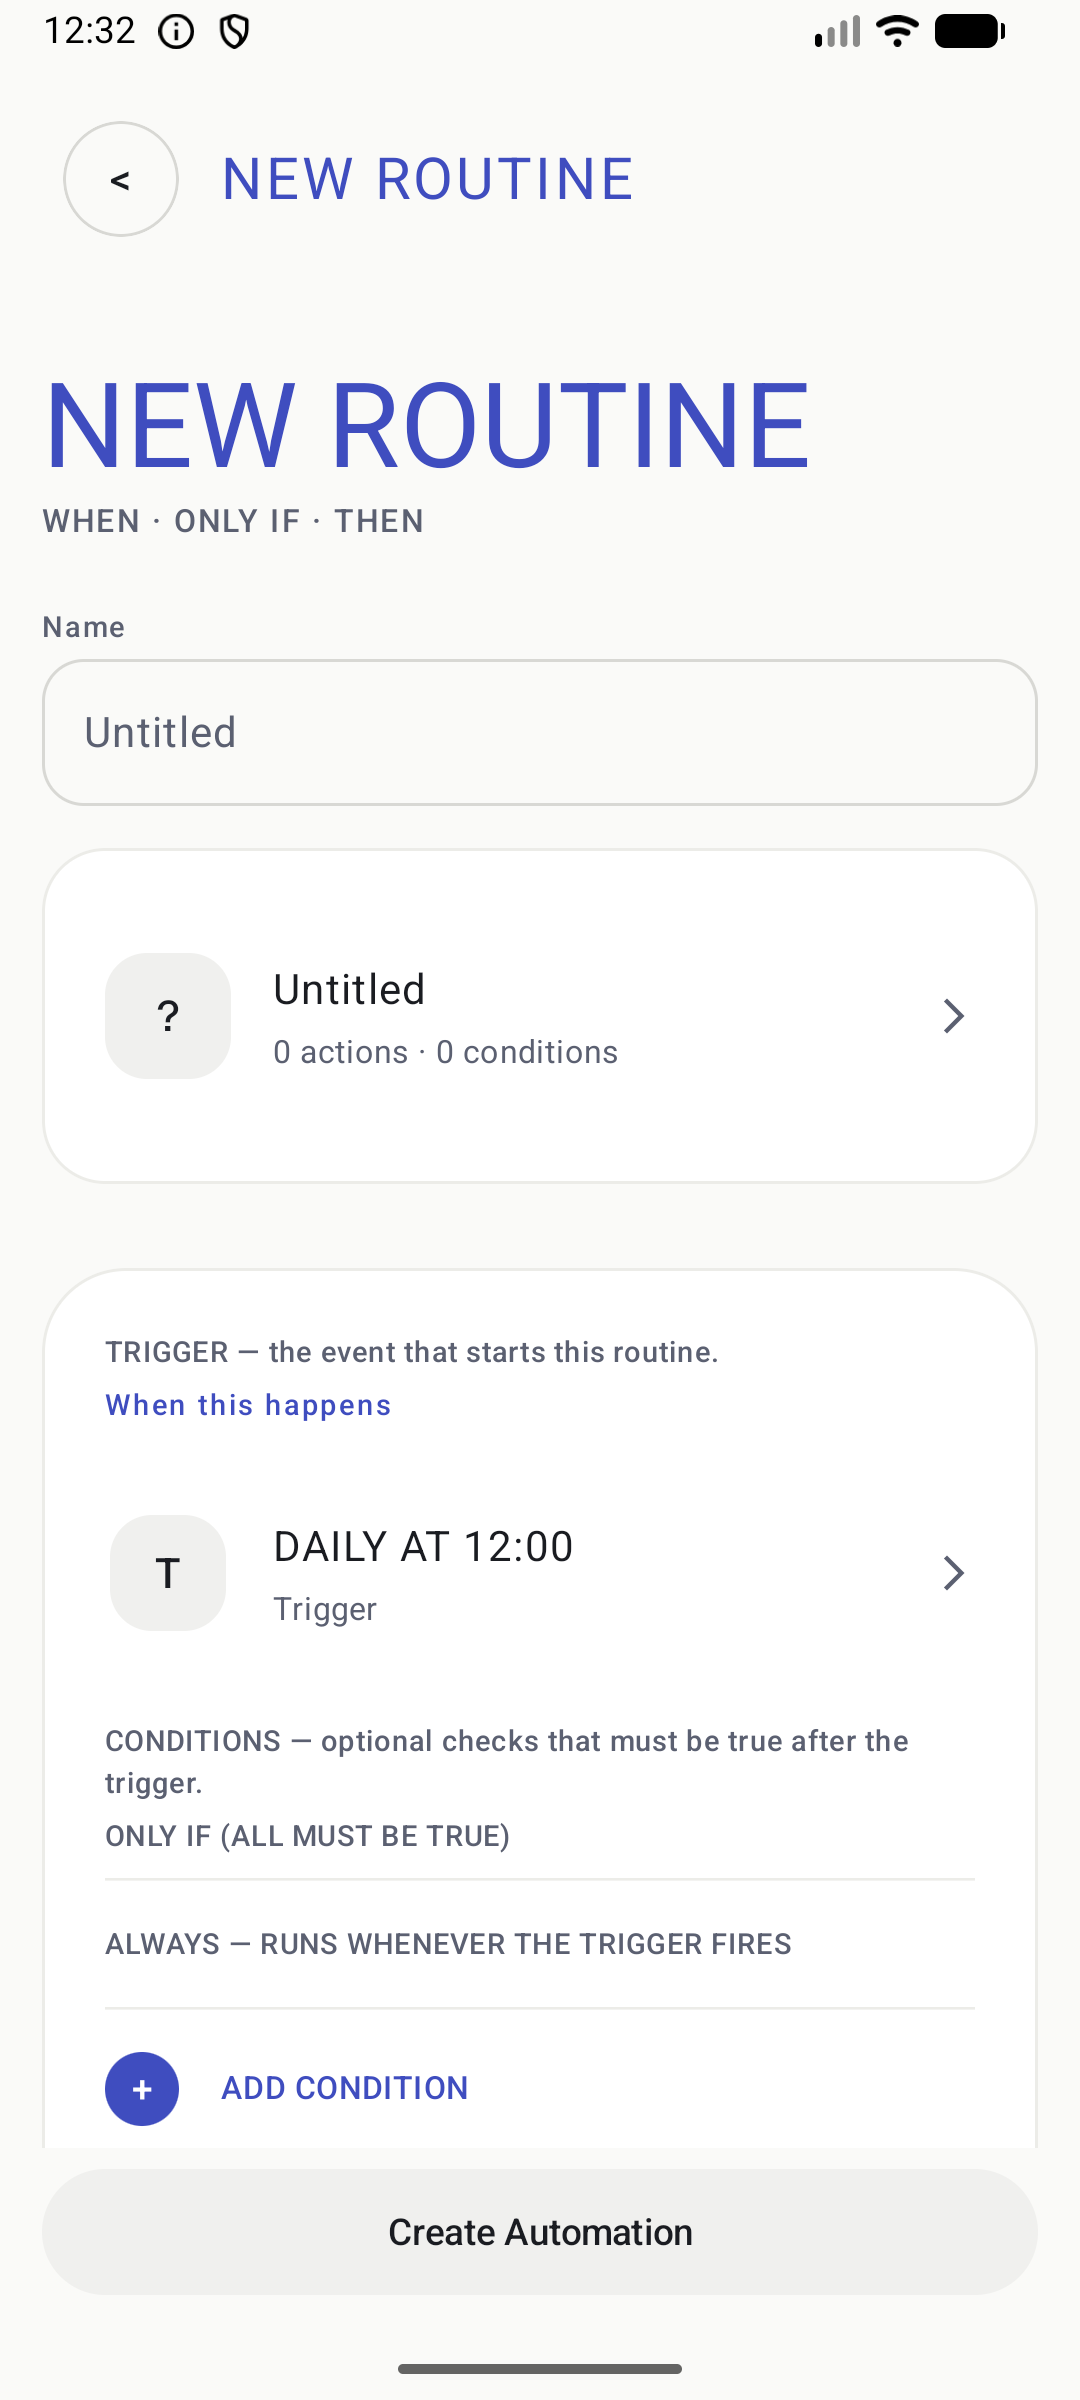
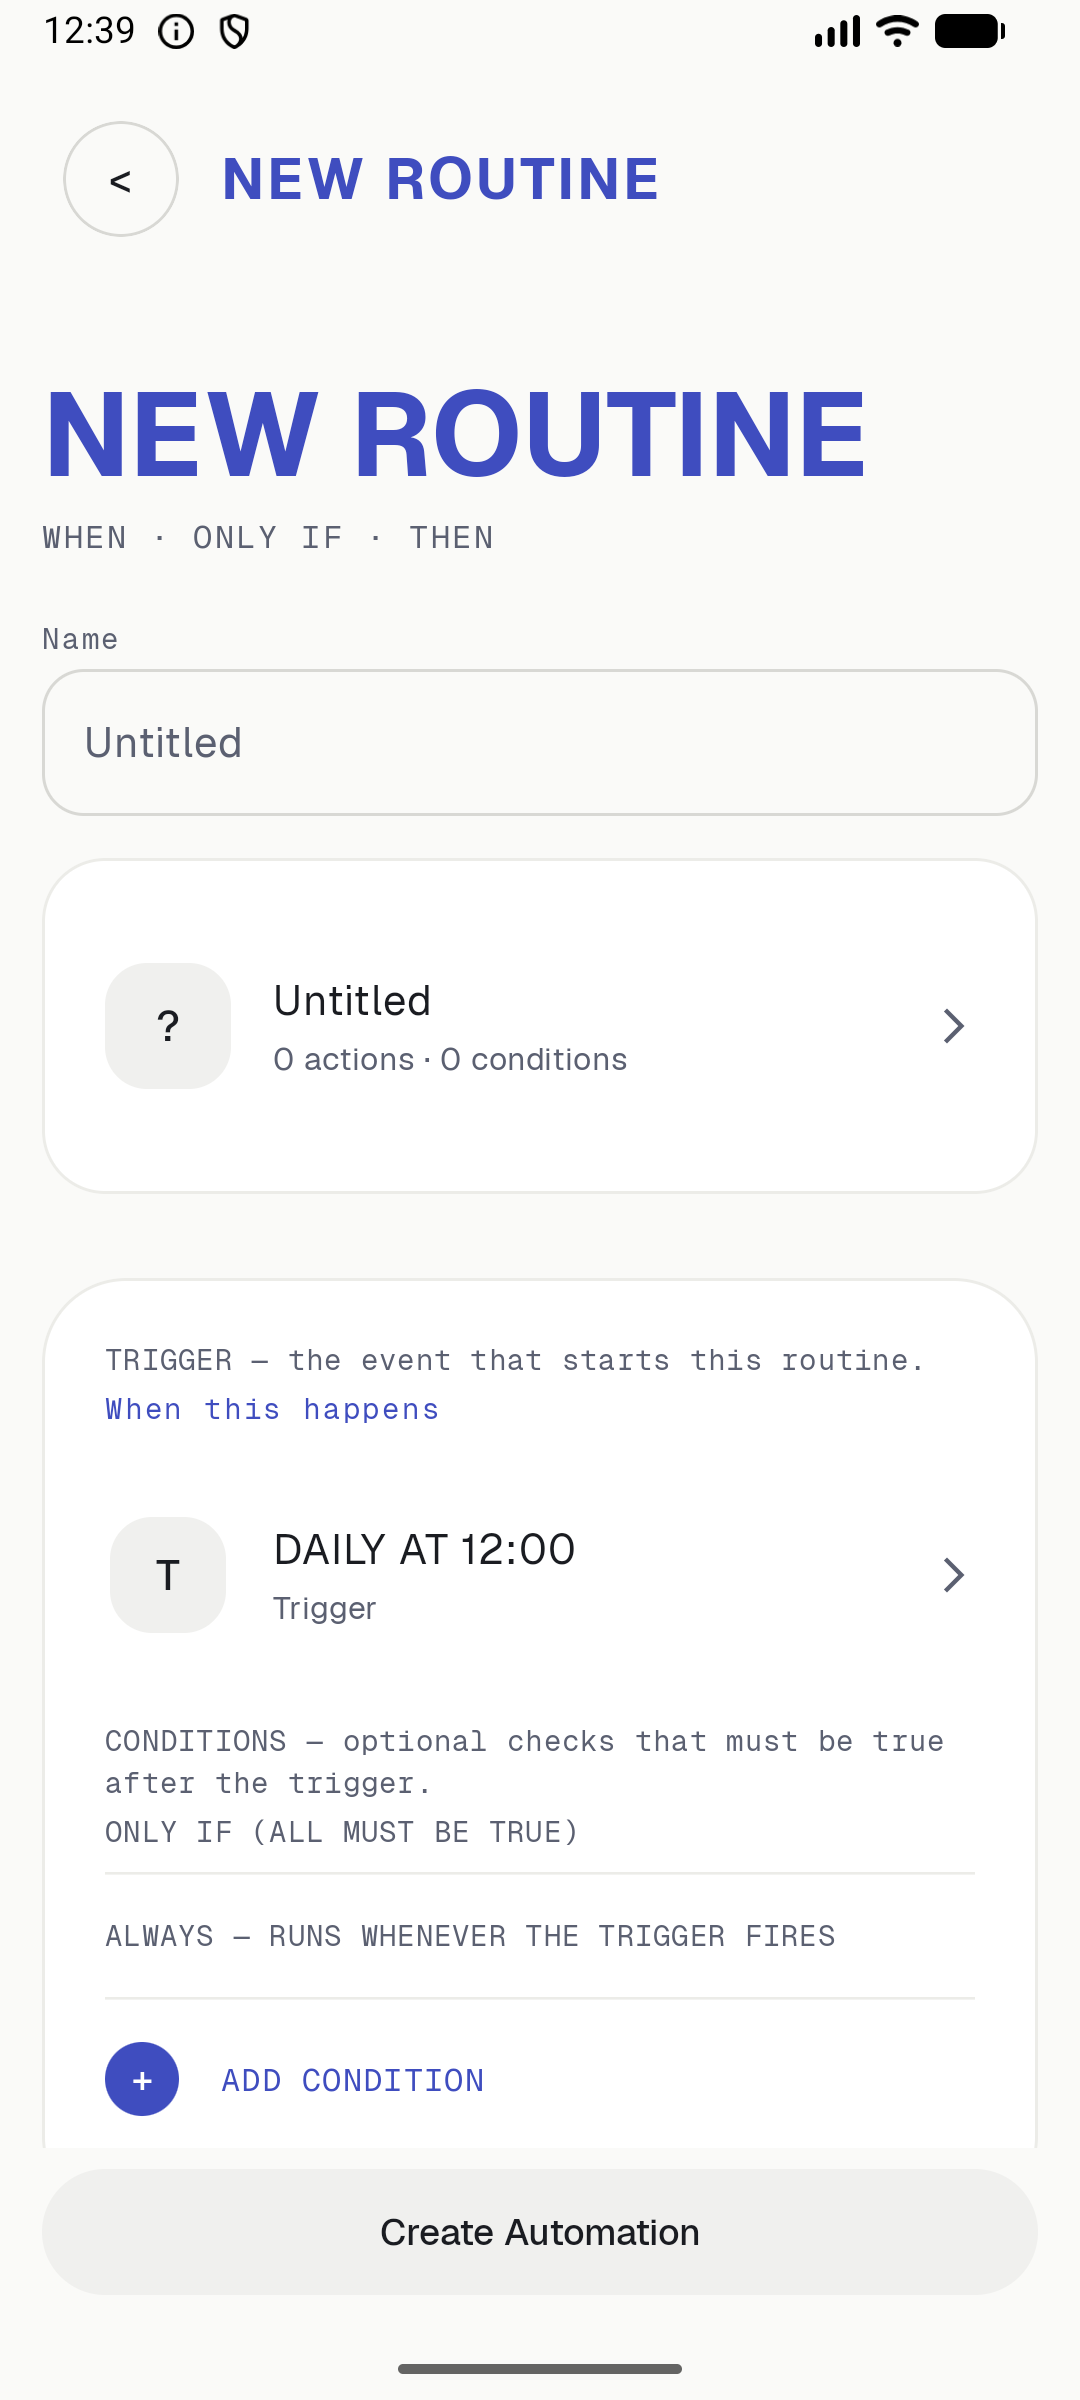
feat(ui+landing): unified classic identity — Geist type, shared indigo
App CLASSIC now uses Geist Sans across all type slots with Geist Mono
for data labels, matching the landing's normal mode. The landing
normal palette mirrors the app's ClassicDark/ClassicLight — indigo
accent (#8E97E8 dark / #3F4DBF light), same canvas and surface tones.
NOTHING style is unchanged. Classic-mode screenshots recaptured on
the emulator and now serve the site's normal style.

Authored By: TDvorak <info@tdvorak.dev>

diff --git a/landing/styles.css b/landing/styles.css
@@ -532,22 +532,22 @@ a { color: inherit; text-decoration: none; }
 :root[data-theme="light"] .shot { background: var(--surface-2); }
 
 /* ===== Style: normal — premium SaaS look (dark + light) =====
-   One restrained accent (warm coral), warm-neutral dark canvas,
-   clean light. Geist Sans throughout, rounded cards, soft shadows.
+   One restrained accent (indigo, matching the app's classic
+   theme), neutral canvases matching the app's classic palette,
    No rainbow, no gradient text, no per-card hues, no colored pills. */
 
 /* --- Palette: normal dark (default) --- */
 :root[data-style="normal"] {
-  --red: #F2542D;                       /* accent: warm coral */
-  --bg: #14110E;                        /* warm near-black, not pure */
-  --surface: #1B1713;
-  --surface-2: #221D17;
-  --border: #2C2620;
-  --border-hi: #3D352C;
-  --text: #F2EDE6;                      /* warm off-white */
-  --text-2: rgba(242,237,230,0.62);
-  --text-3: rgba(242,237,230,0.38);
-  --dot: #2A241D;
+  --red: #8E97E8;                       /* accent: app classic indigo */
+  --bg: #121316;                        /* app classic dark canvas */
+  --surface: #1A1C21;
+  --surface-2: #22252B;
+  --border: #2D3038;
+  --border-hi: #3C414E;
+  --text: #E6E6E4;
+  --text-2: rgba(230,230,228,0.66);
+  --text-3: rgba(230,230,228,0.40);
+  --dot: #24272E;
   --shadow-sm: 0 1px 2px rgba(0,0,0,0.4);
   --shadow-md: 0 8px 24px rgba(0,0,0,0.32);
   --shadow-lg: 0 18px 48px rgba(0,0,0,0.40);
@@ -555,16 +555,16 @@ a { color: inherit; text-decoration: none; }
 
 /* --- Palette: normal light --- */
 :root[data-style="normal"][data-theme="light"] {
-  --red: #E04A26;                       /* deeper coral for contrast */
-  --bg: #FBFAF7;                        /* warm off-white */
+  --red: #3F4DBF;                       /* app classic indigo, light variant */
+  --bg: #FAFAF8;                        /* app classic light canvas */
   --surface: #FFFFFF;
-  --surface-2: #F5F2EC;
-  --border: #E7E2D9;
-  --border-hi: #D0CABE;
-  --text: #1A1714;
-  --text-2: rgba(26,23,20,0.62);
-  --text-3: rgba(26,23,20,0.42);
-  --dot: #ECE7DE;
+  --surface-2: #F0F0EE;
+  --border: #D8D8D4;
+  --border-hi: #C4C4BE;
+  --text: #1A1C21;
+  --text-2: rgba(26,28,33,0.64);
+  --text-3: rgba(26,28,33,0.42);
+  --dot: #E8E8E4;
   --shadow-sm: 0 1px 2px rgba(26,23,20,0.06);
   --shadow-md: 0 8px 24px rgba(26,23,20,0.08);
   --shadow-lg: 0 18px 48px rgba(26,23,20,0.12);
@@ -572,8 +572,8 @@ a { color: inherit; text-decoration: none; }
 
 /* --- Backdrop: drop the dot-grid texture, use plain canvas --- */
 :root[data-style="normal"] .dotgrid { display: none; }
-:root[data-style="normal"] .nav { background: rgba(20,17,14,0.88); backdrop-filter: blur(10px); }
-:root[data-style="normal"][data-theme="light"] .nav { background: rgba(251,250,247,0.88); }
+:root[data-style="normal"] .nav { background: rgba(18,19,22,0.88); backdrop-filter: blur(10px); }
+:root[data-style="normal"][data-theme="light"] .nav { background: rgba(250,250,248,0.88); }
 
 /* --- Typography: Geist Sans everywhere, normal case --- */
 :root[data-style="normal"] .doto {

diff --git a/ui/src/main/kotlin/com/tdvorak/nothingmodes/ui/theme/NothingTypography.kt b/ui/src/main/kotlin/com/tdvorak/nothingmodes/ui/theme/NothingTypography.kt
@@ -200,3 +200,28 @@ object NothingFonts {
     fun mono(): FontFamily? =
         if (LocalUiStyle.current == ThemeManager.UiStyle.CLASSIC) null else SpaceMono
 }
+
+/**
+ * CLASSIC typography — Geist Sans across all slots, Geist Mono for small
+ * data labels. Used only when LocalUiStyle is CLASSIC.
+ */
+object ClassicTypography {
+    val typography =
+        Typography(
+            displayLarge = TextStyle(fontFamily = GeistSans, fontWeight = FontWeight.Bold, fontSize = 57.sp, lineHeight = 64.sp, letterSpacing = (-0.25).sp),
+            displayMedium = TextStyle(fontFamily = GeistSans, fontWeight = FontWeight.Bold, fontSize = 45.sp, lineHeight = 52.sp),
+            displaySmall = TextStyle(fontFamily = GeistSans, fontWeight = FontWeight.Bold, fontSize = 36.sp, lineHeight = 44.sp),
+            headlineLarge = TextStyle(fontFamily = GeistSans, fontWeight = FontWeight.SemiBold, fontSize = 32.sp, lineHeight = 40.sp),
+            headlineMedium = TextStyle(fontFamily = GeistSans, fontWeight = FontWeight.SemiBold, fontSize = 28.sp, lineHeight = 36.sp),
+            headlineSmall = TextStyle(fontFamily = GeistSans, fontWeight = FontWeight.SemiBold, fontSize = 24.sp, lineHeight = 32.sp),
+            titleLarge = TextStyle(fontFamily = GeistSans, fontWeight = FontWeight.SemiBold, fontSize = 22.sp, lineHeight = 28.sp),
+            titleMedium = TextStyle(fontFamily = GeistSans, fontWeight = FontWeight.Medium, fontSize = 16.sp, lineHeight = 24.sp, letterSpacing = 0.15.sp),
+            titleSmall = TextStyle(fontFamily = GeistSans, fontWeight = FontWeight.Medium, fontSize = 14.sp, lineHeight = 20.sp, letterSpacing = 0.1.sp),
+            bodyLarge = TextStyle(fontFamily = GeistSans, fontWeight = FontWeight.Normal, fontSize = 16.sp, lineHeight = 24.sp, letterSpacing = 0.5.sp),
+            bodyMedium = TextStyle(fontFamily = GeistSans, fontWeight = FontWeight.Normal, fontSize = 14.sp, lineHeight = 20.sp, letterSpacing = 0.25.sp),
+            bodySmall = TextStyle(fontFamily = GeistSans, fontWeight = FontWeight.Normal, fontSize = 12.sp, lineHeight = 16.sp, letterSpacing = 0.4.sp),
+            labelLarge = TextStyle(fontFamily = GeistSans, fontWeight = FontWeight.Medium, fontSize = 14.sp, lineHeight = 20.sp, letterSpacing = 0.1.sp),
+            labelMedium = TextStyle(fontFamily = GeistMono, fontWeight = FontWeight.Medium, fontSize = 12.sp, lineHeight = 16.sp, letterSpacing = 0.5.sp),
+            labelSmall = TextStyle(fontFamily = GeistMono, fontWeight = FontWeight.Medium, fontSize = 11.sp, lineHeight = 16.sp, letterSpacing = 0.5.sp),
+        )
+}

diff --git a/ui/src/main/kotlin/com/tdvorak/nothingmodes/ui/theme/NothingModesTheme.kt b/ui/src/main/kotlin/com/tdvorak/nothingmodes/ui/theme/NothingModesTheme.kt
@@ -196,12 +196,12 @@ fun NothingModesTheme(
     if (uiStyle == ThemeManager.UiStyle.CLASSIC) {
         // Curated classic Material 3 — single indigo accent over warm-neutral
         // surfaces. No dynamic color: identical look across all devices.
-        // Default Typography() and Shapes() kept as-is.
+        // Geist Sans typography matches the landing page's normal style.
         val scheme = if (darkTheme) ClassicDark else ClassicLight
         CompositionLocalProvider(LocalUiStyle provides ThemeManager.UiStyle.CLASSIC) {
             MaterialTheme(
                 colorScheme = scheme,
-                typography = Typography(),
+                typography = ClassicTypography.typography,
                 shapes = Shapes(),
                 content = content,
             )
